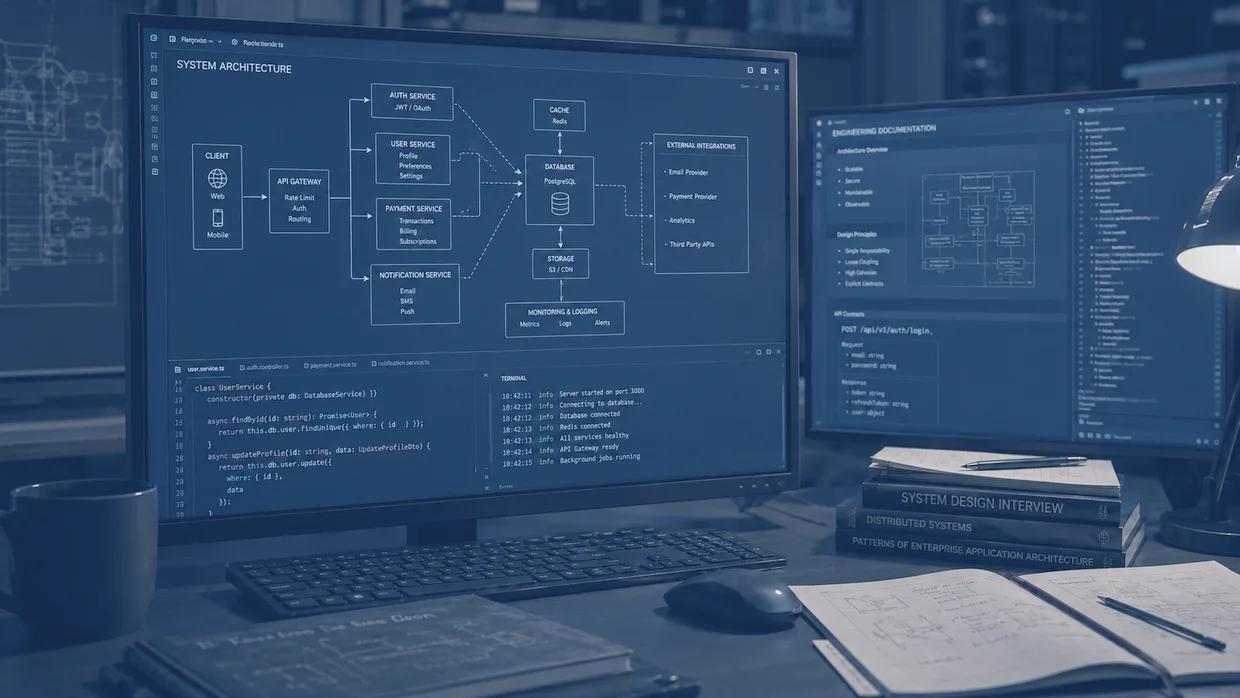
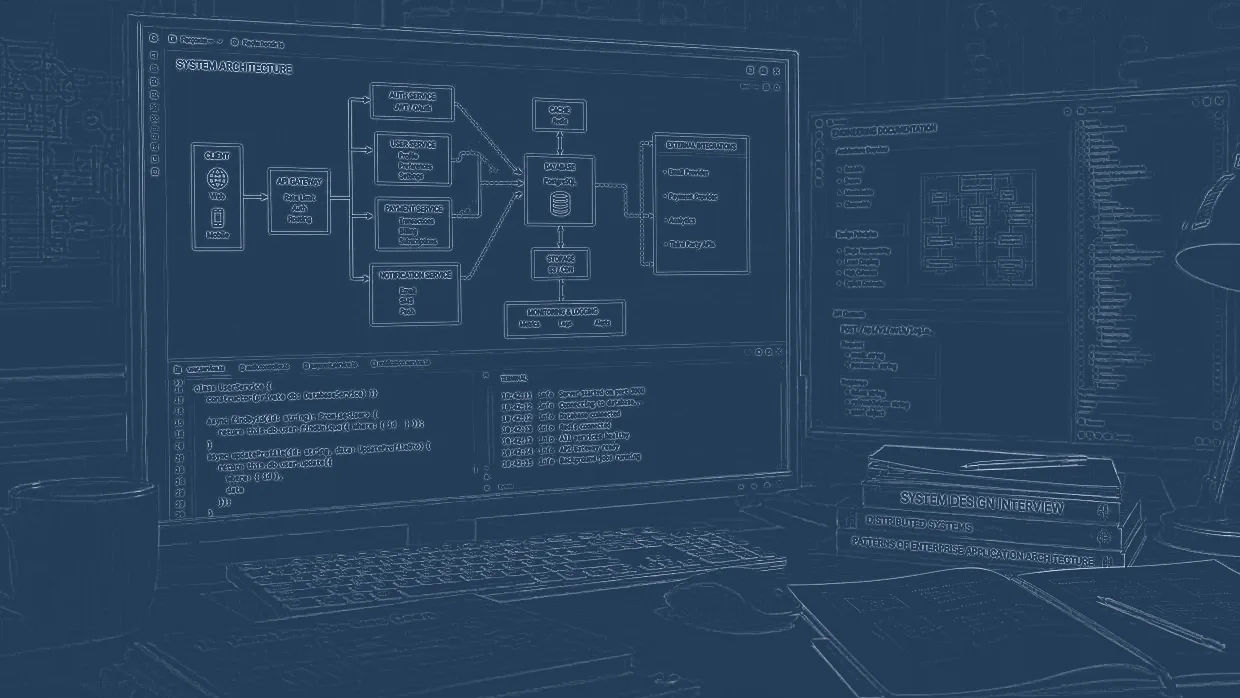
Draw the book's fifteen photographic plates as pencil sketches
02's five services, 03's six process pictures and 04's four interfaces are line
drawings now. tools/build-pencil-plates.sh is a post-pass over
apps/web/public rather than a flag on the three scripts that made them, because
none of their sources are in this repository.

The drawing is STRUCK and not printed. A pencil sketch is graphite on white
paper, and white paper is the one thing this book cannot have -- a plate
lighter than the page is a hole punched in it, which is the failure
build-service-plates.sh shipped once already. So the sketch is made on white
and negated: the ground goes dark and the strokes come up silver, which is what
01's and 07's engravings have always done through their masks. The chapter
illustrations and the engraved figures are the same kind of picture now.

Tone is build-process-plates.sh's exactly, and the audit tests the same
statistic against the same pixel -- the median against a paper luma sampled
live off frame-091, 0.2036. Median and not minimum: a drawing is supposed to
contain strokes darker than the paper, what it may not be is darker overall.
All fifteen land between 0.222 and 0.387.

Three things went wrong on the way in and all three are in the script's header.
%[fx:minima] on an sRGB file is the darkest CHANNEL, and #233c58 has a red of
0.137 against a luma of 0.235, so the first audit refused every plate. 02's
five are keyed, srgba, and the naive conversion flattened them -- their medians
[…]

diff --git a/CLAUDE.md b/CLAUDE.md
@@ -1208,6 +1208,61 @@ spread 02. Like the frame sources, the renders it reads are **not in the repo**
 — it expects them at the repo root. Its header explains the keying, the seeds
 and the tone; read it before changing any of the three.
 
+`tools/build-pencil-plates.sh` redraws all fifteen photographic plates — 02's
+five services, 03's six process pictures and 04's four interfaces — as pencil
+sketches. It is a POST-PASS over `apps/web/public`, not a flag on the other
+three scripts, because their sources are not in this repository and cannot be
+re-run here.
+
+- **It is not idempotent.** Sketching a sketch finds edges in the first pass's
+  own strokes and doubles them. `git checkout apps/web/public/{services,process,work}`
+  before a second run, exactly as `stamp-book-logo.py` requires.
+- **The drawing is struck, not printed.** A pencil sketch is graphite on white
+  paper and white paper is the one thing this book cannot have — a plate
+  lighter than the page is a hole punched in it. The sketch is made on white
+  and then negated, so the ground goes dark and the strokes come up silver,
+  which is what 01's and 07's engravings already do through their masks. The
+  chapter illustrations and the engraved figures are now the same kind of
+  picture.
+- **Tone is `build-process-plates.sh`'s, exactly**, and the audit tests the
+  same statistic against the same pixel: the MEDIAN against a paper luma
+  sampled live off `frame-091` (0.2036). Median and not minimum — a drawing is
+  *supposed* to contain strokes darker than the paper; what it may not be is
+  darker overall. All fifteen land 0.222–0.387.
+- **Two traps, both hit on the way in.** `%[fx:minima]` on an sRGB file is the
+  darkest CHANNEL, and `#233c58` has a red of 0.137 against a luma of 0.235, so
+  the first audit refused every plate. And 02's five are **keyed** — `srgba`,
+  floodfilled transparent by their own build script — so the naive conversion
+  flattened them and their medians went from a quarter to 0.86: five white
+  slabs pasted on the navy. The key is now lifted off, the drawing made on the
+  colour channels, and the key put back; the script refuses any plate whose
+  channel count changed.
+- **Line weight is a fraction of width, not a fixed radius.** The dodge spreads
+  each edge over the blur radius, so a wide radius draws haze *around* objects
+  instead of a line *along* them — the first run used 5px on a 1240px plate and
+  produced a smoky wash. `RADIUS_DIV=1030` puts it at 1.2px there and 0.87 on
+  the 900px services, so one line weight across the book. `POW` comes down with
+  the radius; at 2.0 against 1.2px the fine rules go black.
+- **The redactions survive**, and this was checked rather than assumed. 04's
+  blurred boxes over invented client names are baked into the file this reads,
+  a blurred region has no edges, and a sketch cannot recover what a blur
+  destroyed — verified at 200% on the SaaS and mobile plates.
+
+**What it does not touch, and why.** `plate-telegraphy.webp` is already an 1876
+patent drawing; `perspectives/column.webp` is a luminance MASK rather than a
+picture, so running it through would corrupt the mask instead of restyling the
+art; the logos, because a brand mark is not a sketch of a brand mark.
+
+**And the frames, which is the interesting one.** The same recipe over
+`frame-091` was built and looked at: the photographed book becomes a flat navy
+rectangle with a thin outline. Every reason to keep the frames photographic is
+in that one picture — the paper texture, the gutter shadow, the lit outer edge
+and the fall-off this file tells you never to redraw are all *in the
+photograph*, and the sketch removes them. The pages would still hold type,
+because the ground stays dark, but the book would stop being a photograph of a
+book. It would also need a NEW `/frames/<set>/` directory, since frames are
+served immutable for a year. Not done; the comparison is in the log.
+
 `tools/build-book-frames.sh` decodes `nivlak-book-opening.mp4` (not in the repo)
 into two tiers plus the measured camera track. `tools/stamp-book-logo.py`
 replaces the approximated logo on the cover in the encoded webps; it is not
